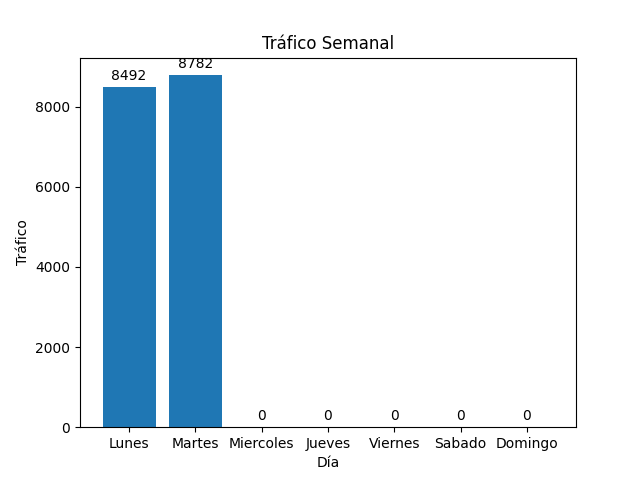
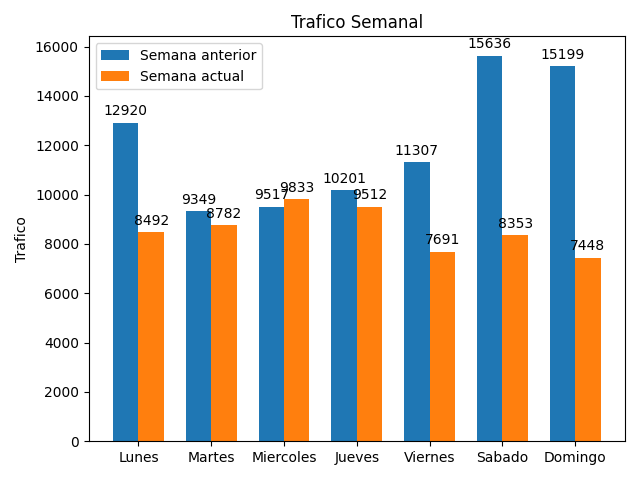
Fix date and count bug

diff --git a/main copy.py b/main copy.py
@@ -17,9 +17,10 @@ import smtplib
 
 HOSTNAME = "data.shoppertrak.com"
 USERNAME = "altaplaza"
-PASSWORD = os.environ.get("FTP_CREDENTIALS_SHOPPERTRAK")
+PASSWORD = "mZZyG9NFWLu*JG"
 
 NAMES_DAYS = ['Lunes','Martes','Miercoles','Jueves', 'Viernes', 'Sabado','Domingo']
+
 
 class My_Connection(pysftp.Connection):
     def __init__(self, *args, **kwargs):
@@ -44,13 +45,13 @@ with My_Connection(host=HOSTNAME, username=USERNAME, password=PASSWORD, cnopts=c
 
 def read_one_file(day):
     traffic = 0
-    with open(f'./files/Extract_{day.strftime("%Y%m%d")}.csv', 'r') as datafile:
+    with open(f'./files/Extract_{day}.csv', 'r') as datafile:
             csv_file = csv.reader(datafile)
-            today = (day - timedelta(days=(1))).strftime("%Y-%m-%d")
+
             for row in csv_file:
+                #print(row[5])
                 id,place,door,date,hour,traffic_count,traffic_es,letter = row
-                if (today == date and hour != "00:00:00") or (day.strftime("%Y-%m-%d") == date and hour == "00:00:00"):
-                    traffic += int(traffic_count)
+                traffic += int(traffic_count)
 
     return traffic
 
@@ -78,8 +79,7 @@ def send_email(message):
     email["Subject"] = subject
     email.attach(MIMEText(body, "plain"))
     image = MIMEImage(open('trafico-semanal.png', 'rb').read())
-    #image.add_header('Content-ID', '<image1>')
-    image.add_header('content-disposition', 'attachment',filename='%s' % 'trafico-semanal.png' )
+    image.add_header('Content-ID', '<image1>')
     email.attach(image)
     report = MIMEBase("application", "octate-stream")
     session = smtplib.SMTP('smtp-relay.gmail.com', 587) #use gmail with port
@@ -97,18 +97,34 @@ trafico_semana_anterior = []
 weekday = (datetime.now() - timedelta(days=(1))).weekday()
 for i in range(7):
     if i - weekday <= 0:
-        day = (datetime.now() - timedelta(days=(weekday - i)))
-        previous_day = (datetime.now() - timedelta(days=(weekday - i + 7)))
+        day = (datetime.now() - timedelta(days=(weekday - i))).strftime("%Y%m%d")
+        previous_day = (datetime.now() - timedelta(days=(weekday - i + 7))).strftime("%Y%m%d")
         trafico.append(read_one_file(day))
         trafico_semana_anterior.append(read_one_file(previous_day))
         if i - weekday == 0:
             trafico_ayer = read_one_file(day)
     elif i - weekday > 0:
-        previous_day = (datetime.now() - timedelta(days=(7 - i + weekday)))
+        previous_day = (datetime.now() - timedelta(days=(7 - i + weekday))).strftime("%Y%m%d")
         trafico.append(0)
         trafico_semana_anterior.append(read_one_file(previous_day))
 
 
+'''
+
+fig, ax = plt.subplots()
+ax.set_title('Tráfico Semanal')
+#Colocamos una etiqueta en el eje Y
+ax.set_ylabel('Tráfico')
+#Colocamos una etiqueta en el eje X
+ax.set_xlabel('Día')
+#Creamos la grafica de barras utilizando 'dias' como eje X y 'trafico' como eje y.
+bar = plt.bar(NAMES_DAYS, trafico)
+autolabel(bar)
+plt.savefig('trafico-semanal.png')
+#Finalmente mostramos la grafica con el metodo show()
+#plt.show()
+
+'''
 
 print(trafico)
 print(trafico_semana_anterior)
@@ -122,9 +138,9 @@ width = 0.35
 fig, ax = plt.subplots()
 
 #Generamos las barras para el conjunto de hombres
-rects1 = ax.bar(x - width/2, trafico_semana_anterior, width, label='Semana anterior')
+rects1 = ax.bar(x - width/2, trafico_semana_anterior, width, label='Anterior')
 #Generamos las barras para el conjunto de mujeres
-rects2 = ax.bar(x + width/2, trafico, width, label='Semana actual')
+rects2 = ax.bar(x + width/2, trafico, width, label='Actual')
 
 #Añadimos las etiquetas de identificacion de valores en el grafico
 ax.set_ylabel('Trafico')
